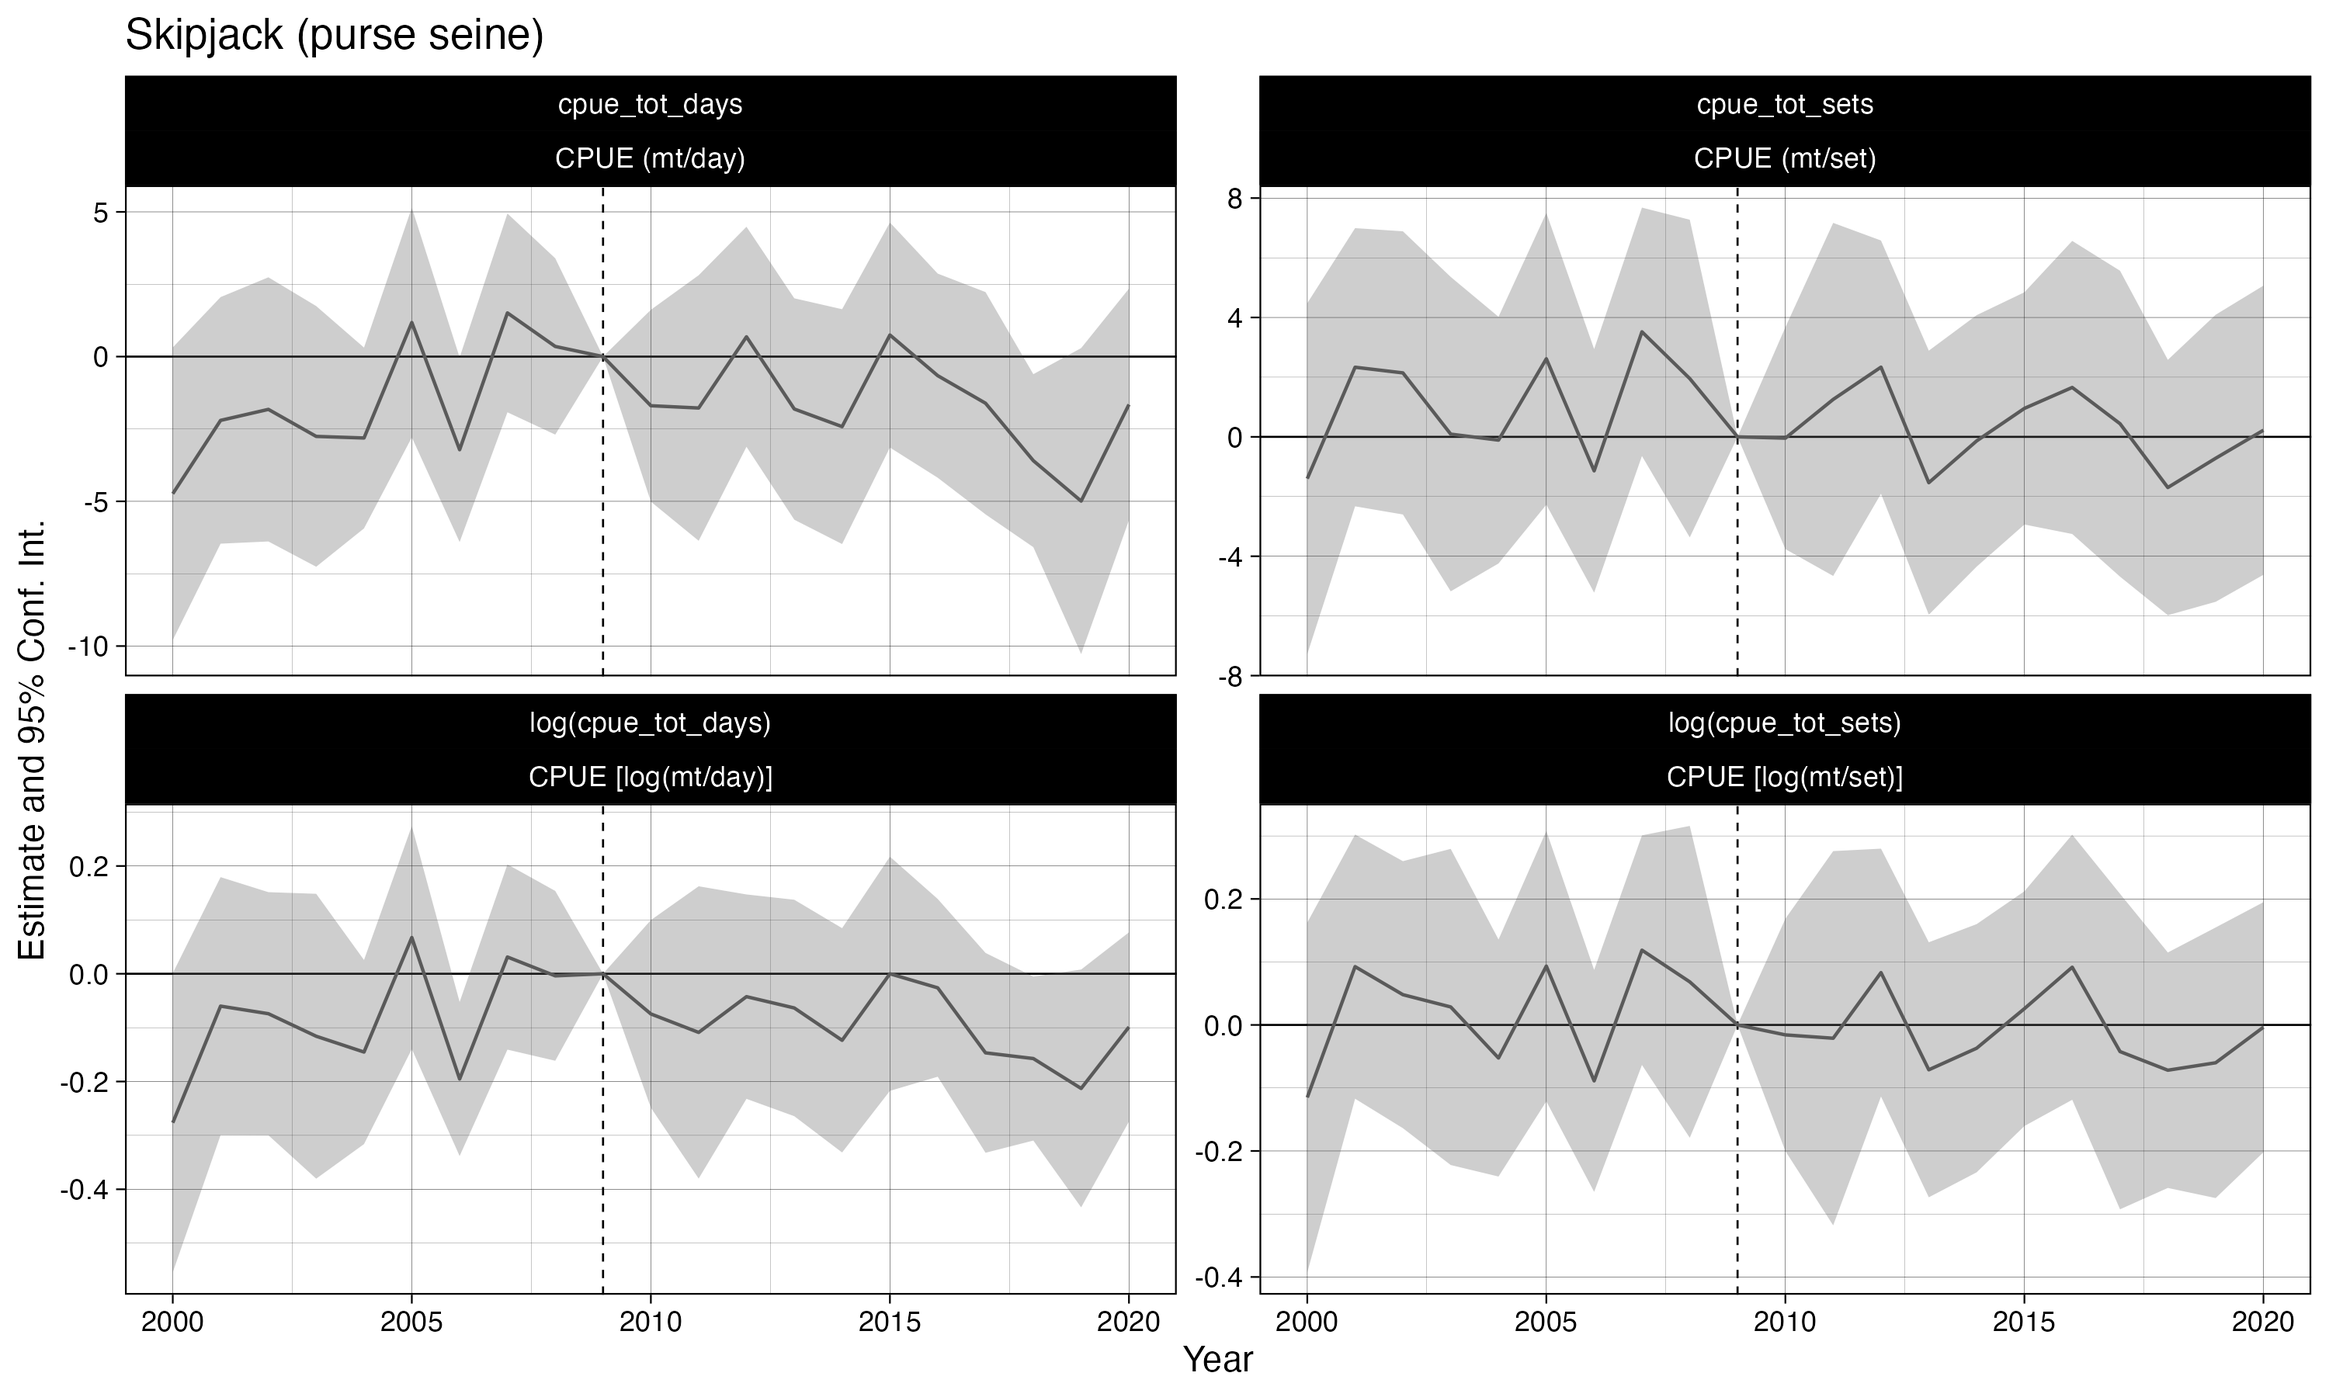
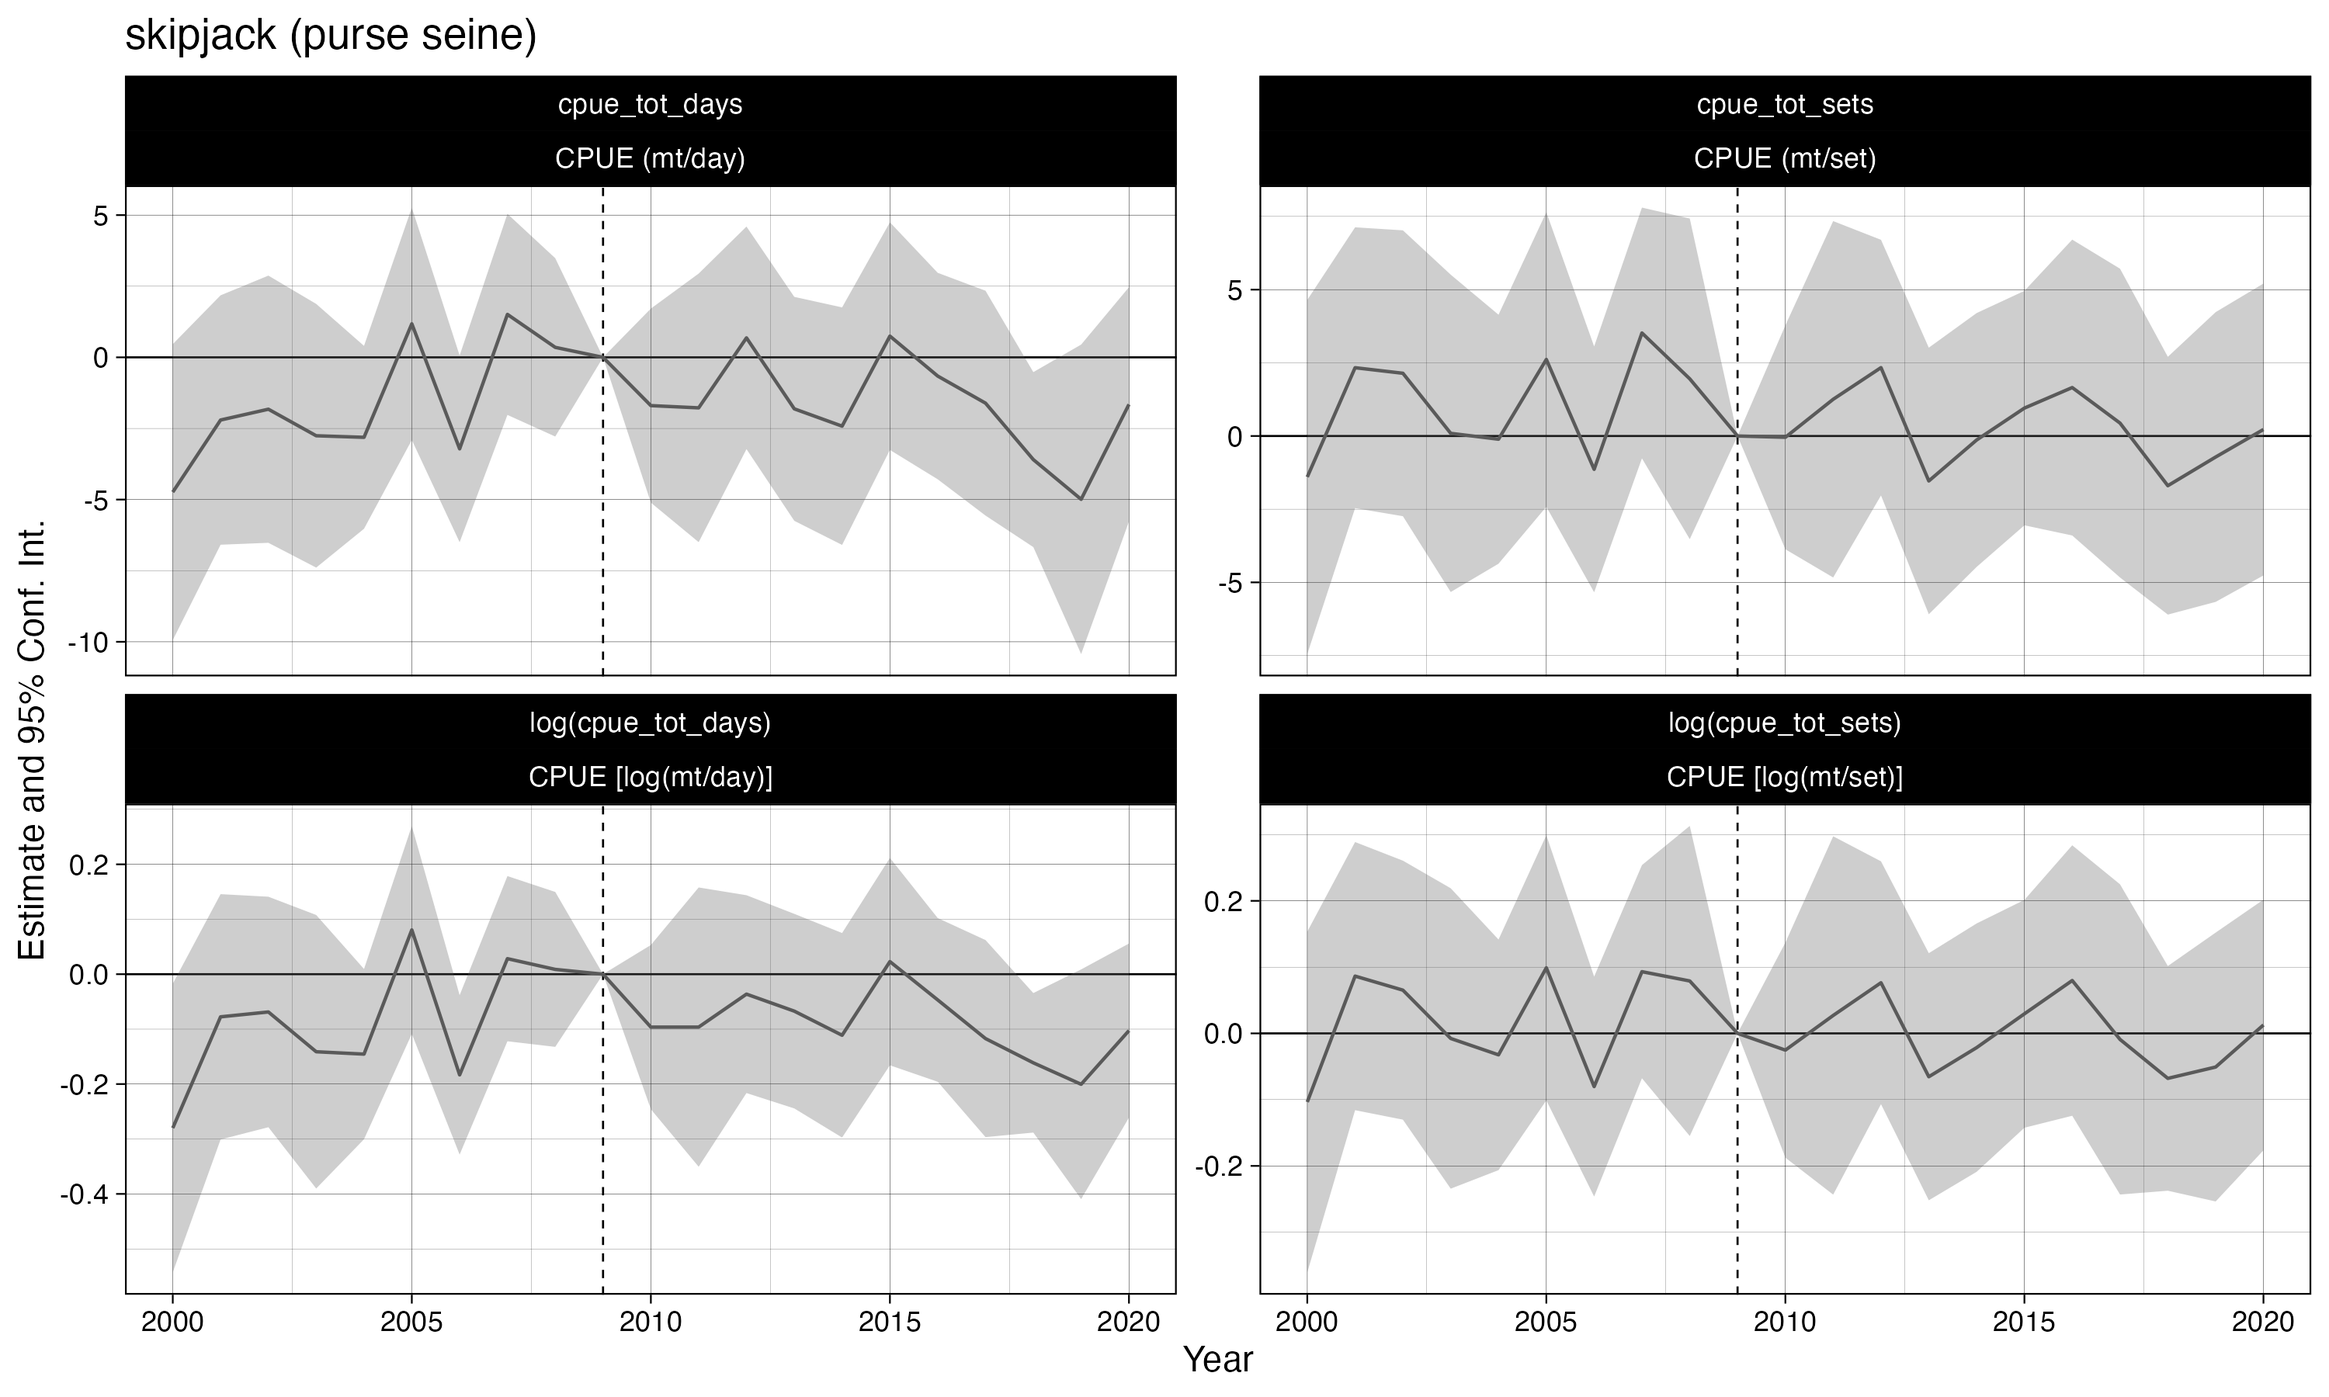
Updated metnion of specie sto use lowercase throughout

diff --git a/content/tab/h3_reg.tex b/content/tab/h3_reg.tex
@@ -1,8 +1,8 @@
 \begin{table}
 \centering
 \begin{threeparttable}
-\caption{\label{tab:h3}Coefficient estimates for change in Skipjack tuna CPUE in
-             areas within 100 nautical miles of the high seas pocket after the closure, relative to changes in Bigeye tuna CPUE
+\caption{\label{tab:h3}Coefficient estimates for change in skipjack tuna CPUE in
+             areas within 100 nautical miles of the high seas pocket after the closure, relative to changes in bigeye tuna CPUE
              observed for areas between 100 and 200 nautical miles and inside PNA nation's Exclusive Economic Zones.}
 \centering
 \begin{tabular}[t]{lcc}
@@ -10,17 +10,17 @@
   & CPUE (mt/day) & CPUE (mt/set)\\
 \midrule
 Post x Near & \num{-0.496} & \num{-0.865}\\
- & (\num{0.661}) & (\num{0.796})\\
-$\bar{Y}_{pre}$ & \num{22.296} & \num{27.966}\\
+ & (\num{0.679}) & (\num{0.818})\\
+$\bar{Y}_{pre}$ & \num{22.946} & \num{28.182}\\
 \midrule
-Num.Obs. & \num{24140} & \num{24140}\\
-R2 Adj. & \num{0.148} & \num{0.106}\\
+Num.Obs. & \num{5960} & \num{5960}\\
+R2 Adj. & \num{0.333} & \num{0.245}\\
 \bottomrule
 \end{tabular}
 \begin{tablenotes}
 \small
 \item * p $<$ 0.1, ** p $<$ 0.05, *** p $<$ 0.01
-\item The unit of observation is a grid cell by year. All model specifications include fixed effects by year and grid cell. Numbers in parentheses are Conley standard errors with a 220km radius. $\bar{Y}_{pre}$ indicates the mean of each outcome variable in the pre-closure period.
+\item The unit of observation is a grid cell in a given year. All model specifications include fixed effects by year and grid cell. Numbers in parentheses are Conley standard errors with a 220km radius. $\bar{Y}_{pre}$ indicates the mean of each outcome variable over the pre-closure period.
 \end{tablenotes}
 \end{threeparttable}
 \end{table}

diff --git a/content/tab/h3_reg_alb_ll.tex b/content/tab/h3_reg_alb_ll.tex
@@ -2,7 +2,7 @@
 \centering
 \begin{threeparttable}
 \small
-\caption{Change in CPUE for Albacore tuna caught by the longline fleet within 100 nm of the high seas pockets}
+\caption{Change in CPUE for albacore tuna caught by the longline fleet within 100 nm of the high seas pockets}
 \centering
 \begin{tabular}[t]{lcc}
 \toprule
@@ -10,22 +10,22 @@
 \midrule
 \addlinespace[0.5em]
 \multicolumn{3}{l}{\textit{A) Levels}}\\
-\midrule \hspace{1em}Post x Near & -0.581 & -0.013\\
-\hspace{1em} & (1.305) & (0.020)\\
-\hspace{1em}Num.Obs. & 2855 & 2855\\
-\hspace{1em}R2 Adj. & 0.740 & 0.755\\
+\midrule \hspace{1em}Post x Near & -0.487 & -0.011\\
+\hspace{1em} & (1.260) & (0.019)\\
+\hspace{1em}R2 Adj. & 0.878 & 0.881\\
 \addlinespace[0.5em]
 \multicolumn{3}{l}{\textit{B) Log-transformed}}\\
-\midrule \hspace{1em}Post x Near & 0.480 & 0.597\\
-\hspace{1em} & (0.388) & (0.490)\\
-\hspace{1em}Num.Obs. & 2852 & 2855\\
-\hspace{1em}R2 Adj. & 0.742 & 0.710\\
+\midrule \hspace{1em}Post x Near & 1.326* & 1.403*\\
+\hspace{1em} & (0.724) & (0.810)\\
+\hspace{1em}R2 Adj. & 0.843 & 0.819\\
+\midrule\\
+\hspace{1em}Num.Obs. & 339 & 339\\
 \bottomrule
 \end{tabular}
 \begin{tablenotes}
 \small
 \item * p $<$ 0.1, ** p $<$ 0.05, *** p $<$ 0.01
-\item The unit of observation is a grid cell by year. All model specifications include fixed effects by year and grid cell. Numbers in parentheses are Conley standard errors with a 220km radius.
+\item The unit of observation is a grid cell in a given year. All model specifications include fixed effects by year and grid cell. Numbers in parentheses are Conley standard errors with a 220km radius.
 \end{tablenotes}
 \end{threeparttable}
 \end{table}

diff --git a/content/tab/h3_reg_bet_ps.tex b/content/tab/h3_reg_bet_ps.tex
@@ -2,7 +2,7 @@
 \centering
 \begin{threeparttable}
 \small
-\caption{Change in CPUE for Bigeye tuna caught by the purse seine fleet within 100 nm of the high seas pockets}
+\caption{Change in CPUE for bigeye tuna caught by the purse seine fleet within 100 nm of the high seas pockets}
 \centering
 \begin{tabular}[t]{lcc}
 \toprule
@@ -10,22 +10,22 @@
 \midrule
 \addlinespace[0.5em]
 \multicolumn{3}{l}{\textit{A) Levels}}\\
-\midrule \hspace{1em}Post x Near & 0.061 & 0.001\\
-\hspace{1em} & (0.102) & (0.118)\\
-\hspace{1em}R2 Adj. & 0.071 & 0.093\\
+\midrule \hspace{1em}Post x Near & 0.055 & -0.005\\
+\hspace{1em} & (0.104) & (0.121)\\
+\hspace{1em}R2 Adj. & 0.174 & 0.209\\
 \addlinespace[0.5em]
 \multicolumn{3}{l}{\textit{B) Log-transformed}}\\
-\midrule \hspace{1em}Post x Near & 0.088 & 0.088\\
-\hspace{1em} & (0.087) & (0.096)\\
-\hspace{1em}R2 Adj. & 0.097 & 0.137\\
+\midrule \hspace{1em}Post x Near & 0.086 & 0.081\\
+\hspace{1em} & (0.086) & (0.096)\\
+\hspace{1em}R2 Adj. & 0.227 & 0.279\\
 \midrule\\
-\hspace{1em}Num.Obs. & 23839 & 23839\\
+\hspace{1em}Num.Obs. & 5908 & 5908\\
 \bottomrule
 \end{tabular}
 \begin{tablenotes}
 \small
 \item * p $<$ 0.1, ** p $<$ 0.05, *** p $<$ 0.01
-\item The unit of observation is a grid cell by year. All model specifications include fixed effects by year and grid cell. Numbers in parentheses are Conley standard errors with a 220km radius.
+\item The unit of observation is a grid cell in a given year. All model specifications include fixed effects by year and grid cell. Numbers in parentheses are Conley standard errors with a 220km radius.
 \end{tablenotes}
 \end{threeparttable}
 \end{table}

diff --git a/content/tab/h3_reg_skj_ps.tex b/content/tab/h3_reg_skj_ps.tex
@@ -2,7 +2,7 @@
 \centering
 \begin{threeparttable}
 \small
-\caption{Change in CPUE for Skipjack tuna caught by the purse seine fleet within 100 nm of the high seas pockets}
+\caption{Change in CPUE for skipjack tuna caught by the purse seine fleet within 100 nm of the high seas pockets}
 \centering
 \begin{tabular}[t]{lcc}
 \toprule
@@ -11,21 +11,21 @@
 \addlinespace[0.5em]
 \multicolumn{3}{l}{\textit{A) Levels}}\\
 \midrule \hspace{1em}Post x Near & -0.496 & -0.865\\
-\hspace{1em} & (0.661) & (0.796)\\
-\hspace{1em}R2 Adj. & 0.148 & 0.106\\
+\hspace{1em} & (0.679) & (0.818)\\
+\hspace{1em}R2 Adj. & 0.333 & 0.245\\
 \addlinespace[0.5em]
 \multicolumn{3}{l}{\textit{B) Log-transformed}}\\
-\midrule \hspace{1em}Post x Near & -0.026 & -0.036\\
-\hspace{1em} & (0.033) & (0.038)\\
-\hspace{1em}R2 Adj. & 0.131 & 0.098\\
+\midrule \hspace{1em}Post x Near & -0.024 & -0.026\\
+\hspace{1em} & (0.031) & (0.038)\\
+\hspace{1em}R2 Adj. & 0.316 & 0.244\\
 \midrule\\
-\hspace{1em}Num.Obs. & 24140 & 24140\\
+\hspace{1em}Num.Obs. & 5960 & 5960\\
 \bottomrule
 \end{tabular}
 \begin{tablenotes}
 \small
 \item * p $<$ 0.1, ** p $<$ 0.05, *** p $<$ 0.01
-\item The unit of observation is a grid cell by year. All model specifications include fixed effects by year and grid cell. Numbers in parentheses are Conley standard errors with a 220km radius.
+\item The unit of observation is a grid cell in a given year. All model specifications include fixed effects by year and grid cell. Numbers in parentheses are Conley standard errors with a 220km radius.
 \end{tablenotes}
 \end{threeparttable}
 \end{table}

diff --git a/content/tab/h3_reg_yft_ps.tex b/content/tab/h3_reg_yft_ps.tex
@@ -2,7 +2,7 @@
 \centering
 \begin{threeparttable}
 \small
-\caption{Change in CPUE for Yellowfin tuna caught by the purse seine fleet within 100 nm of the high seas pockets}
+\caption{Change in CPUE for yellowfin tuna caught by the purse seine fleet within 100 nm of the high seas pockets}
 \centering
 \begin{tabular}[t]{lcc}
 \toprule
@@ -11,21 +11,21 @@
 \addlinespace[0.5em]
 \multicolumn{3}{l}{\textit{A) Levels}}\\
 \midrule \hspace{1em}Post x Near & 0.146 & 0.402\\
-\hspace{1em} & (0.273) & (0.292)\\
-\hspace{1em}R2 Adj. & 0.105 & 0.141\\
+\hspace{1em} & (0.281) & (0.300)\\
+\hspace{1em}R2 Adj. & 0.221 & 0.280\\
 \addlinespace[0.5em]
 \multicolumn{3}{l}{\textit{B) Log-transformed}}\\
-\midrule \hspace{1em}Post x Near & -0.004 & 0.012\\
-\hspace{1em} & (0.040) & (0.050)\\
-\hspace{1em}R2 Adj. & 0.122 & 0.170\\
+\midrule \hspace{1em}Post x Near & 0.015 & 0.022\\
+\hspace{1em} & (0.037) & (0.044)\\
+\hspace{1em}R2 Adj. & 0.244 & 0.304\\
 \midrule\\
-\hspace{1em}Num.Obs. & 24111 & 24111\\
+\hspace{1em}Num.Obs. & 5956 & 5956\\
 \bottomrule
 \end{tabular}
 \begin{tablenotes}
 \small
 \item * p $<$ 0.1, ** p $<$ 0.05, *** p $<$ 0.01
-\item The unit of observation is a grid cell by year. All model specifications include fixed effects by year and grid cell. Numbers in parentheses are Conley standard errors with a 220km radius.
+\item The unit of observation is a grid cell in a given year. All model specifications include fixed effects by year and grid cell. Numbers in parentheses are Conley standard errors with a 220km radius.
 \end{tablenotes}
 \end{threeparttable}
 \end{table}

diff --git a/content/tab/h3_reg_yft_ll.tex b/content/tab/h3_reg_yft_ll.tex
@@ -2,7 +2,7 @@
 \centering
 \begin{threeparttable}
 \small
-\caption{Change in CPUE for Yellowfin tuna caught by the longline fleet within 100 nm of the high seas pockets}
+\caption{Change in CPUE for yellowfin tuna caught by the longline fleet within 100 nm of the high seas pockets}
 \centering
 \begin{tabular}[t]{lcc}
 \toprule
@@ -11,21 +11,21 @@
 \addlinespace[0.5em]
 \multicolumn{3}{l}{\textit{A) Levels}}\\
 \midrule \hspace{1em}Post x Near & 3.346 & 0.026\\
-\hspace{1em} & (2.040) & (0.028)\\
-\hspace{1em}R2 Adj. & 0.124 & 0.238\\
+\hspace{1em} & (2.147) & (0.030)\\
+\hspace{1em}R2 Adj. & 0.383 & 0.382\\
 \addlinespace[0.5em]
 \multicolumn{3}{l}{\textit{B) Log-transformed}}\\
-\midrule \hspace{1em}Post x Near & 0.239 & 0.195\\
-\hspace{1em} & (0.150) & (0.164)\\
-\hspace{1em}R2 Adj. & 0.302 & 0.284\\
+\midrule \hspace{1em}Post x Near & 0.254 & 0.176\\
+\hspace{1em} & (0.209) & (0.200)\\
+\hspace{1em}R2 Adj. & 0.518 & 0.493\\
 \midrule\\
-\hspace{1em}Num.Obs. & 3229 & 3229\\
+\hspace{1em}Num.Obs. & 347 & 347\\
 \bottomrule
 \end{tabular}
 \begin{tablenotes}
 \small
 \item * p $<$ 0.1, ** p $<$ 0.05, *** p $<$ 0.01
-\item The unit of observation is a grid cell by year. All model specifications include fixed effects by year and grid cell. Numbers in parentheses are Conley standard errors with a 220km radius.
+\item The unit of observation is a grid cell in a given year. All model specifications include fixed effects by year and grid cell. Numbers in parentheses are Conley standard errors with a 220km radius.
 \end{tablenotes}
 \end{threeparttable}
 \end{table}

diff --git a/content/tab/h3_reg_bet_ll.tex b/content/tab/h3_reg_bet_ll.tex
@@ -2,7 +2,7 @@
 \centering
 \begin{threeparttable}
 \small
-\caption{Change in CPUE for Bigeye tuna caught by the longline fleet within 100 nm of the high seas pockets}
+\caption{Change in CPUE for bigeye tuna caught by the longline fleet within 100 nm of the high seas pockets}
 \centering
 \begin{tabular}[t]{lcc}
 \toprule
@@ -11,21 +11,21 @@
 \addlinespace[0.5em]
 \multicolumn{3}{l}{\textit{A) Levels}}\\
 \midrule \hspace{1em}Post x Near & 0.136 & 0.000\\
-\hspace{1em} & (0.411) & (0.012)\\
-\hspace{1em}R2 Adj. & 0.492 & 0.542\\
+\hspace{1em} & (0.433) & (0.013)\\
+\hspace{1em}R2 Adj. & 0.683 & 0.709\\
 \addlinespace[0.5em]
 \multicolumn{3}{l}{\textit{B) Log-transformed}}\\
-\midrule \hspace{1em}Post x Near & -0.029 & -0.029\\
-\hspace{1em} & (0.117) & (0.123)\\
-\hspace{1em}R2 Adj. & 0.608 & 0.672\\
+\midrule \hspace{1em}Post x Near & 0.028 & 0.032\\
+\hspace{1em} & (0.134) & (0.152)\\
+\hspace{1em}R2 Adj. & 0.812 & 0.848\\
 \midrule\\
-\hspace{1em}Num.Obs. & 3228 & 3228\\
+\hspace{1em}Num.Obs. & 347 & 347\\
 \bottomrule
 \end{tabular}
 \begin{tablenotes}
 \small
 \item * p $<$ 0.1, ** p $<$ 0.05, *** p $<$ 0.01
-\item The unit of observation is a grid cell by year. All model specifications include fixed effects by year and grid cell. Numbers in parentheses are Conley standard errors with a 220km radius.
+\item The unit of observation is a grid cell in a given year. All model specifications include fixed effects by year and grid cell. Numbers in parentheses are Conley standard errors with a 220km radius.
 \end{tablenotes}
 \end{threeparttable}
 \end{table}

diff --git a/content/tab/h3_reg_all_ps.tex b/content/tab/h3_reg_all_ps.tex
@@ -11,21 +11,21 @@
 \addlinespace[0.5em]
 \multicolumn{3}{l}{\textit{A) Levels}}\\
 \midrule \hspace{1em}Post x Near & -0.294 & -0.468\\
-\hspace{1em} & (0.805) & (1.022)\\
-\hspace{1em}R2 Adj. & 0.108 & 0.083\\
+\hspace{1em} & (0.827) & (1.050)\\
+\hspace{1em}R2 Adj. & 0.273 & 0.209\\
 \addlinespace[0.5em]
 \multicolumn{3}{l}{\textit{B) Log-transformed}}\\
-\midrule \hspace{1em}Post x Near & -0.012 & -0.014\\
-\hspace{1em} & (0.030) & (0.035)\\
-\hspace{1em}R2 Adj. & 0.091 & 0.082\\
+\midrule \hspace{1em}Post x Near & -0.007 & -0.007\\
+\hspace{1em} & (0.028) & (0.034)\\
+\hspace{1em}R2 Adj. & 0.258 & 0.221\\
 \midrule\\
-\hspace{1em}Num.Obs. & 24140 & 24140\\
+\hspace{1em}Num.Obs. & 5960 & 5960\\
 \bottomrule
 \end{tabular}
 \begin{tablenotes}
 \small
 \item * p $<$ 0.1, ** p $<$ 0.05, *** p $<$ 0.01
-\item The unit of observation is a grid cell by year. All model specifications include fixed effects by year and grid cell. Numbers in parentheses are Conley standard errors with a 220km radius.
+\item The unit of observation is a grid cell in a given year. All model specifications include fixed effects by year and grid cell. Numbers in parentheses are Conley standard errors with a 220km radius.
 \end{tablenotes}
 \end{threeparttable}
 \end{table}

diff --git a/content/tab/h3_reg_all_ll.tex b/content/tab/h3_reg_all_ll.tex
@@ -11,21 +11,21 @@
 \addlinespace[0.5em]
 \multicolumn{3}{l}{\textit{A) Levels}}\\
 \midrule \hspace{1em}Post x Near & 2.983 & 0.015\\
-\hspace{1em} & (2.773) & (0.037)\\
-\hspace{1em}R2 Adj. & 0.264 & 0.228\\
+\hspace{1em} & (2.918) & (0.039)\\
+\hspace{1em}R2 Adj. & 0.578 & 0.360\\
 \addlinespace[0.5em]
 \multicolumn{3}{l}{\textit{B) Log-transformed}}\\
-\midrule \hspace{1em}Post x Near & 0.080 & 0.028\\
-\hspace{1em} & (0.130) & (0.100)\\
-\hspace{1em}R2 Adj. & 0.454 & 0.231\\
+\midrule \hspace{1em}Post x Near & 0.145 & 0.057\\
+\hspace{1em} & (0.174) & (0.128)\\
+\hspace{1em}R2 Adj. & 0.662 & 0.404\\
 \midrule\\
-\hspace{1em}Num.Obs. & 3229 & 3229\\
+\hspace{1em}Num.Obs. & 347 & 347\\
 \bottomrule
 \end{tabular}
 \begin{tablenotes}
 \small
 \item * p $<$ 0.1, ** p $<$ 0.05, *** p $<$ 0.01
-\item The unit of observation is a grid cell by year. All model specifications include fixed effects by year and grid cell. Numbers in parentheses are Conley standard errors with a 220km radius.
+\item The unit of observation is a grid cell in a given year. All model specifications include fixed effects by year and grid cell. Numbers in parentheses are Conley standard errors with a 220km radius.
 \end{tablenotes}
 \end{threeparttable}
 \end{table}

diff --git a/content/summaries/h3_summaries.tex b/content/summaries/h3_summaries.tex
@@ -1,4 +1,4 @@
---- 2026-05-22 ---
+--- 2026-07-27 ---
 Notes for H3
 
 
